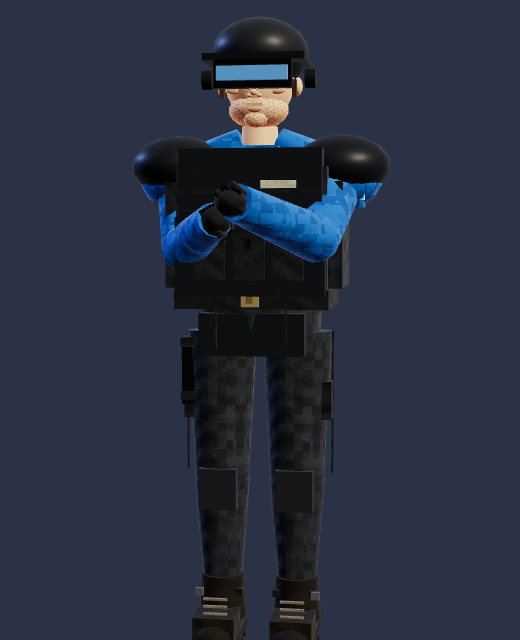
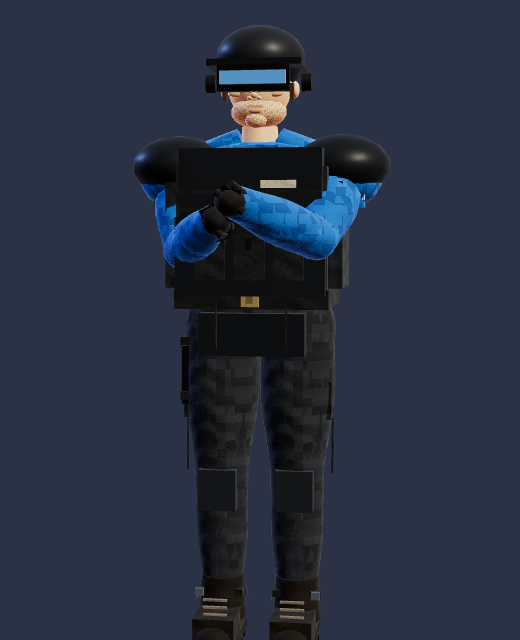
Bodies: organic lathe torso + tapered seamless limbs (rounded joint caps, bicep/quad/calf shaping), shirt hem, pant hems draping over boots, ~7.5-head proportions, idle weight shift + breathing, downed pose tilts to stairs/slopes; SW v28

diff --git a/chars.js b/chars.js
@@ -12,6 +12,13 @@ const _a=new THREE.Vector3(),_b=new THREE.Vector3(),_up=new THREE.Vector3(0,1,0)
 // material ids: 0 cloth+camo 1 skin 2 hard gear 3 eye 4 plain cloth/leather 5 stubble skin 6 hair
 let MID=0;const M=k=>{MID=k};
 function limb(P,a,b,r1,r2,c,seg=10){_a.set(...a);_b.set(...b);const d=_b.clone().sub(_a),l=d.length();_q.setFromUnitVectors(_up,d.normalize());_m.compose(_a.clone().add(_b).multiplyScalar(.5),_q,new THREE.Vector3(1,1,1));P.push({g:G('cyl',r2,r1,l,seg),m:_m.clone(),c,k:MID})}
+const LG={};function limbGeo(l,r1,r2,bu,seg){const k=[l,r1,r2,bu,seg].map(v=>+(+v).toFixed(4)).join(',');if(LG[k])return LG[k];const pts=[];const n=10;
+ for(let i=0;i<=4;i++){const a=-Math.PI/2+i/4*Math.PI/2;pts.push(new THREE.Vector2(Math.cos(a)*r1,-l/2+Math.sin(a)*r1*.9))}
+ for(let i=1;i<n;i++){const t=i/n;pts.push(new THREE.Vector2(r1+(r2-r1)*t+bu*Math.sin(Math.PI*t)*Math.sin(Math.PI*t),-l/2+l*t))}
+ for(let i=0;i<=4;i++){const a=i/4*Math.PI/2;pts.push(new THREE.Vector2(Math.max(1e-4,Math.cos(a)*r2),l/2+Math.sin(a)*r2*.9))}
+ const g=new THREE.LatheGeometry(pts,seg);return LG[k]=g}
+function limbO(P,a,b,r1,r2,c,bu=0,seg=14){_a.set(...a);_b.set(...b);const d=_b.clone().sub(_a),l=d.length();_q.setFromUnitVectors(_up,d.normalize());_m.compose(_a.clone().add(_b).multiplyScalar(.5),_q,new THREE.Vector3(1,1,1));P.push({g:limbGeo(l,r1,r2,bu,seg),m:_m.clone(),c,k:MID})}
+function torsoGeo(pr,seg,sz){const k='T'+pr.join()+seg+sz;if(LG[k])return LG[k];const g=new THREE.LatheGeometry(pr.map(([r,y])=>new THREE.Vector2(Math.max(1e-4,r),y)),seg);g.scale(1,1,sz);return LG[k]=g}
 const bx=(P,w,h,d,x,y,z,c,rx=0,ry=0,rz=0)=>P.push({g:G('box',w,h,d),p:[x,y,z],r:[rx,ry,rz],c,k:MID});
 const sp=(P,r,x,y,z,c,sx=1,sy=1,sz=1,seg=12)=>P.push({g:G('sph',r,seg,Math.max(6,seg*.66|0)),p:[x,y,z],s:[sx,sy,sz],c,k:MID});
 const cy=(P,r1,r2,h,x,y,z,c,seg=12,rx=0,rz=0)=>P.push({g:G('cyl',r1,r2,h,seg),p:[x,y,z],r:[rx,0,rz],c,k:MID});
@@ -71,8 +78,9 @@ export function makeCharacter(teamCol,name,id,tagCol,outfit,cls){const h=hash(id
  const root=new THREE.Group(),rig=new THREE.Group();root.add(rig);
  // ---- torso (hips .92 .. shoulders 1.42) ----
  const torso=sect(rig,'T'+K,P=>{
-  M(0);cy(P,.16*bw,.15*bw,.2,0,.98,0,pants,16);// hips
-  M(L.slim?4:0);cy(P,.17*bw,.15*bw,.42,0,1.2,0,shirt,16);sp(P,.16*bw,0,1.3,-.02,shirt,1.05,.7,.75,14);// shirt torso + chest volume
+  M(0);P.push({g:torsoGeo([[.02,.86],[.13,.865],[.165,.9],[.17,.97],[.16,1.04],[.15,1.07]].map(([r,y])=>[r*bw,y]),20,.74),p:[0,0,0],c:pants,k:MID});// pelvis / pants seat
+  M(L.slim?4:0);P.push({g:torsoGeo([[.15,1.0],[.152,1.05],[.146,1.1],[.16,1.2],[.178,1.29],[.18,1.35],[.165,1.41],[.11,1.455],[.05,1.47]].map(([r,y])=>[r*bw,y]),22,.7),p:[0,0,0],c:shirt,k:MID});// organic torso: waist -> ribcage -> chest -> shoulders
+  bx(P,.31*bw,.025,.23*bw,0,1.035,0,new THREE.Color(shirt).multiplyScalar(.9).getHex());// shirt hem overlapping belt
   if(L.slim){sp(P,.075,-.07,1.3,-.1,shirt,1.1,.8,.6,10);sp(P,.075,.07,1.3,-.1,shirt,1.1,.8,.6,10)}// pecs
   sp(P,.1*bw,-.2*bw,1.37,0,shirt,1.05,.85,1);sp(P,.1*bw,.2*bw,1.37,0,shirt,1.05,.85,1);// shoulders / deltoids
   limb(P,[-.05,1.47,.01],[-.19*bw,1.39,.01],.045,.06,shirt,8);limb(P,[.05,1.47,.01],[.19*bw,1.39,.01],.045,.06,shirt,8);// trapezius
@@ -97,7 +105,7 @@ export function makeCharacter(teamCol,name,id,tagCol,outfit,cls){const h=hash(id
   if(L.slim){M(4);bx(P,.36,.04,.02,0,1.25,-.15,0x2b2c33,0,0,.6);M(2);bx(P,.04,.3,.04,.0,1.25,.16,0x55575e,0,0,.6);bx(P,.08,.02,.06,-.07,1.15,.15,0x8a7a4a,0,0,.6)}// ninja wrap + sword handle + guard
  });
  // ---- head (pivot at neck 1.5) ----
- const head=new THREE.Group();head.position.set(0,1.5,0);rig.add(head);const hd=L.head,capped=hd!=='ninja'&&hd!=='helmet'&&hd!=='jugg';
+ const head=new THREE.Group();head.position.set(0,1.5,0);head.scale.setScalar(.93);rig.add(head);const hd=L.head,capped=hd!=='ninja'&&hd!=='helmet'&&hd!=='jugg';
  sect(head,'H'+K,P=>{
   M(1);sp(P,.113,0,.145,-.002,skin,.9,1.06,1,16);// cranium
   M(fh===1?5:1);sp(P,.088,0,.06,-.025,skin,1.0,.6,1.0,14);sp(P,.032,0,.03,-.088,skin,1.1,.8,.8,10);// jaw + chin
@@ -129,10 +137,10 @@ export function makeCharacter(teamCol,name,id,tagCol,outfit,cls){const h=hash(id
  // ---- aim group: arms + hands holding the gun ----
  const aim=new THREE.Group();aim.position.set(0,1.36,0);rig.add(aim);const fore=L.rolled?skin:shirt;
  sect(aim,'A'+K,P=>{const ar=L.bulk?.07:.055;
-  M(L.slim?4:0);limb(P,[.2*bw,0,0],[.2,-.2,-.14],ar,ar*.9,shirt,12);sp(P,ar*1.05,.2,-.1,-.07,shirt,1,1.25,1,10);// upper arm + bicep
-  M(L.rolled?1:L.slim?4:0);limb(P,[.2,-.2,-.14],[.07,-.12,-.36],ar*.95,ar*.7,fore,12);sp(P,ar*.9,.2,-.2,-.14,shirt);// forearm + elbow
-  M(L.slim?4:0);limb(P,[-.2*bw,0,0],[-.19,-.17,-.24],ar,ar*.9,shirt,12);sp(P,ar*1.05,-.195,-.085,-.12,shirt,1,1.25,1,10);
-  M(L.rolled?1:L.slim?4:0);limb(P,[-.19,-.17,-.24],[-.02,-.08,-.56],ar*.95,ar*.7,fore,12);sp(P,ar*.9,-.19,-.17,-.24,shirt);
+  M(L.slim?4:0);limbO(P,[.2*bw,0,0],[.2,-.2,-.14],ar*1.05,ar*.82,shirt,ar*.18);// upper arm with bicep (seamless shoulder/elbow caps)
+  M(L.rolled?1:L.slim?4:0);limbO(P,[.2,-.2,-.14],[.07,-.12,-.36],ar*.85,ar*.62,fore,ar*.14);
+  M(L.slim?4:0);limbO(P,[-.2*bw,0,0],[-.19,-.17,-.24],ar*1.05,ar*.82,shirt,ar*.18);
+  M(L.rolled?1:L.slim?4:0);limbO(P,[-.19,-.17,-.24],[-.02,-.08,-.56],ar*.85,ar*.62,fore,ar*.14);
   M(4);sp(P,.042,.06,-.12,-.39,glove,1,1.05,1.25,10);sp(P,.042,-.01,-.08,-.58,glove,1,.9,1.25,10);// gloved palms
   if(L.rolled){M(0);for(const s of[1,-1]){const e=s>0?[.2,-.2,-.14]:[-.19,-.17,-.24];cy(P,ar*1.08,ar*1.08,.04,e[0]*.96+(s>0?-.005:.01),e[1]+.005,e[2]-.01,shirt,10,.9)}}// rolled cuffs
  },P=>{M(4);
@@ -146,11 +154,11 @@ export function makeCharacter(teamCol,name,id,tagCol,outfit,cls){const h=hash(id
  const gunMount=new THREE.Group();gunMount.position.set(.055,-.085,-.4);aim.add(gunMount);
  // ---- legs ----
  const legs=[];for(const s of[-1,1]){const th=new THREE.Group();th.position.set(s*.095*bw,.92,0);rig.add(th);
-  sect(th,'Lt'+s+K,P=>{M(0);limb(P,[0,0,0],[0,-.43,-.01],.088*bw,.068*bw,pants,14);sp(P,.07*bw,0,-.43,-.01,pants);sp(P,.07*bw,0,-.17,-.035,pants,1,1.7,.8,10)},// thigh + quad
+  sect(th,'Lt'+s+K,P=>{M(0);limbO(P,[0,.02,0],[0,-.43,-.01],.095*bw,.066*bw,pants,.012*bw,16);sp(P,.06*bw,0,-.17,-.04,pants,1,2,.7,10)},// thigh (seamless hip/knee) + quad
    P=>{M(0);bx(P,.07,.11,.05,s*.07,-.2,-.03,pouch);M(4);bx(P,.072,.012,.052,s*.07,-.15,-.03,new THREE.Color(pouch).multiplyScalar(.75).getHex());bx(P,.006,.42,.006,s*.088*bw,-.21,0,seam);// cargo pocket + flap + outer seam
     if(s>0&&!L.slim){M(2);bx(P,.06,.17,.09,.08,-.13,-.02,0x1d1f20);M(4);bx(P,.065,.025,.1,.08,-.03,-.02,strap);bx(P,.065,.025,.1,.08,-.19,-.02,strap)}});// thigh holster + straps
   const sh=new THREE.Group();sh.position.set(0,-.44,-.01);th.add(sh);
-  sect(sh,'Ls'+s+K,P=>{M(0);limb(P,[0,0,0],[0,-.38,.01],.07*bw,.052,pants,14);sp(P,.055*bw,0,-.14,.03,pants,1,1.6,1,10);// shin + calf
+  sect(sh,'Ls'+s+K,P=>{M(0);limbO(P,[0,.01,0],[0,-.36,.01],.068*bw,.056,pants,.008,16);sp(P,.05*bw,0,-.13,.03,pants,1,1.7,.9,10);P.push({g:torsoGeo([[.058,-.27],[.066,-.32],[.075,-.35],[.078,-.37]],14,1.05),p:[0,0,.005],c:pants,k:0});// shin + calf + pant hem draping over boot
    M(4);bx(P,.12,.1,.24,0,-.43,-.045,boot);sp(P,.06,0,-.44,-.14,boot,1,.7,1.1,10);bx(P,.125,.025,.255,0,-.47,-.045,sole);cy(P,.065,.072,.13,0,-.355,.005,boot,12)},// boot, toe cap, sole, ankle
    P=>{M(2);bx(P,.11,.12,.05,0,-.02,-.065,L.slim?0x202127:0x3a3f45);M(4);bx(P,.125,.02,.02,0,-.02,0,strap);// knee pad + strap
     for(let i=0;i<4;i++)bx(P,.07,.006,.01,0,-.4+i*.022,-.125,0x8a7f6a);bx(P,.135,.02,.05,0,-.335,-.02,strap);M(2);bx(P,.025,.022,.012,s*.06,-.335,-.05,metal);// laces, ankle strap + buckle
@@ -176,11 +184,13 @@ export function animate(m,st,dt){const u=m.userData;const sp=Math.min(st.speed,1
  if(st.air&&!st.climb){legA=[.55,-.15];shA=[-1.0,-.35];rigY=0}
  if(u.climb>.01){const k=u.climb,cs=Math.sin(u.ph);legA=legA.map((a,i)=>lerp(a,.6+(i?-cs:cs)*.5,k));shA=shA.map((a,i)=>lerp(a,-1.1+(i?cs:-cs)*.35,k));rigX=lerp(rigX,-.08,k);aimY=k}
  if(st.slide){rigY=-.48;rigX=.45;legA=[1.25,1.05];shA=[-.15,-.55]}
- if(u.down>.01){const k=u.down,cw=Math.sin(u.ph*.6)*walk;rigY=lerp(rigY,-.3,k);rigX=lerp(rigX,.6,k);legA=legA.map((a,i)=>lerp(a,.18+(i?-cw:cw)*.12,k));shA=shA.map((a,i)=>lerp(a,-2.55+(i?cw:-cw)*.1,k));headX=-.55*k;aimY=Math.max(aimY,.5*k)}// kneeling/crawling on the surface (head ~1.0-1.2 = downed hitbox)
+ if(u.down>.01){const k=u.down,cw=Math.sin(u.ph*.6)*walk;rigY=lerp(rigY,-.26,k);rigX=lerp(rigX,.6,k);legA=legA.map((a,i)=>lerp(a,.18+(i?-cw:cw)*.12,k));shA=shA.map((a,i)=>lerp(a,-2.68+(i?cw:-cw)*.1,k));headX=-.55*k;aimY=Math.max(aimY,.5*k)}// kneeling/crawling on the surface (head ~1.0-1.2 = downed hitbox)
+ {const idle=(1-walk)*(1-u.crouch)*(1-u.down)*(st.air||st.slide||st.climb?0:1);if(idle>.01){u.it=(u.it||0)+dt;const w=Math.sin(u.it*.7);rigZ+=w*.03*idle;legA=legA.map((a,i)=>a+(i?(w>0?.08:0):(w<0?.08:0))*idle);shA=shA.map((a,i)=>a-(i?(w>0?.14:0):(w<0?.14:0))*idle);rigY+=-.012*Math.abs(w)*idle}
+  if(u.torso){const br=1+Math.sin((u.it||0)*1.7)*.008*(1-run);u.torso.scale.set(1,br,1+ (br-1)*1.5)}}
  u.flinch=Math.max(0,u.flinch-dt*4);
  if(u.dead>0){u.dead+=dt;const k=Math.min(1,u.dead/.55);const e=k*k*(3-2*k);rigX=1.45*e;rigY=-.05*e;rigZ=u.roll*.25*e;legA=[.3*e,.1*e];shA=[-.2,-.3];u.tag.visible=false}
  else u.tag.visible=true;
- const r=u.rig;r.position.y+=(rigY-r.position.y)*k14;r.rotation.x+=((rigX+u.flinch*.35)-r.rotation.x)*Math.min(1,dt*(u.dead?8:12));r.rotation.z+=(rigZ-r.rotation.z)*k14;
+ if(st.slope!=null&&u.down>.01)rigX+=st.slope*u.down;const r=u.rig;r.position.y+=(rigY-r.position.y)*k14;r.rotation.x+=((rigX+u.flinch*.35)-r.rotation.x)*Math.min(1,dt*(u.dead?8:12));r.rotation.z+=(rigZ-r.rotation.z)*k14;
  // aim: arms follow pitch; head stabilises against body tilt so the gun stays on target
  const pitch=u.dead?0:st.pitch;u.aim.rotation.x+=(lerp(pitch-r.rotation.x*.85,-.9,aimY*.6)-u.aim.rotation.x)*Math.min(1,dt*15);u.aim.position.y=1.36+(u.climb>.01?.05*u.climb:0);
  u.head.rotation.x+=((pitch*.6-r.rotation.x*.7+headX)-u.head.rotation.x)*k14;u.head.rotation.z=-r.rotation.z*.8;

diff --git a/game.js b/game.js
@@ -365,6 +365,8 @@ const me={id:null,pos:new THREE.Vector3(),vel:new THREE.Vector3(),ground:false,y
 try{const l=JSON.parse(LS('load2')||'null');if(l&&l.length===4&&l.every((k,i)=>W[k]&&W[k].slot===i&&owns(k)))me.load=l}catch(e){}
 const C={byOrd:{},players:{},phase:'lobby',map:0,mode:'team',score:{},round:0,hostId:null,roundT:0,sb:{}};
 let isHost=false,peer=null,conn=null,roomCode='';
+function gndAt(x,z,y){let g=y<.6?0:-1e9;for(const c of cols)if(x>c.x0&&x<c.x1&&z>c.z0&&z<c.z1&&c.y1<=y+.45&&c.y1>y-1.2&&c.y1>g)g=c.y1;return g<-1e8?y:g}
+function downSlope(q){const t=performance.now();if(q.slT&&t-q.slT<250)return q.slV;const y=q.rp.y,fx=-Math.sin(q.yaw),fz=-Math.cos(q.yaw);const f=gndAt(q.rp.x+fx*.45,q.rp.z+fz*.45,y),b=gndAt(q.rp.x-fx*.45,q.rp.z-fz*.45,y);q.slT=t;q.slV=Math.max(-.5,Math.min(.5,Math.atan2(f-b,.9)));return q.slV}
 let DMTEX=null;function downMark(q,dn){if(!dn){if(q.dnM)q.dnM.visible=false;return}
  if(!q.dnM){if(!DMTEX){const cv=document.createElement('canvas');cv.width=cv.height=128;const x=cv.getContext('2d');x.beginPath();x.arc(64,64,54,0,7);x.fillStyle='rgba(200,20,30,.92)';x.fill();x.lineWidth=8;x.strokeStyle='#fff';x.stroke();x.fillStyle='#fff';x.fillRect(52,28,24,72);x.fillRect(28,52,72,24);DMTEX=new THREE.CanvasTexture(cv)}
   q.dnM=new THREE.Sprite(new THREE.SpriteMaterial({map:DMTEX,transparent:true,depthWrite:false}));q.dnM.position.y=1.55;q.model.add(q.dnM)}
@@ -998,7 +1000,7 @@ function updRemotes(dt){const a=Math.min(1,dt*14);for(const id in C.players){con
  if(!q.alive&&!u.dead){q.model.visible=false;continue}if(u.dead>3){q.model.visible=false;continue}q.model.visible=true;
  if(q.alive){if(q.rp.distanceTo(q.tp)>6)q.rp.copy(q.tp);else q.rp.lerp(q.tp,a);let dy=q.tyaw-q.yaw;dy=Math.atan2(Math.sin(dy),Math.cos(dy));q.yaw+=dy*a;q.pitch+=(q.tpitch-q.pitch)*a}
  const sp=Math.hypot(q.rp.x-q.lp.x,q.rp.z-q.lp.z)/Math.max(dt,.001);q.lp.copy(q.rp);q.spd=(q.spd||0)+(sp-(q.spd||0))*Math.min(1,dt*8);
- if(q.wid!=null)setRemoteGun(q,q.wid);q.model.position.copy(q.rp);q.model.rotation.y=q.yaw;{const dn=!!(q.flags&4);const cl=!dn&&!!inVol(ladders,q.rp,.15);animate(q.model,{speed:q.spd,air:!!(q.flags&2)&&!cl,slide:!!(q.flags&1)&&!dn,pitch:q.pitch,climb:cl,down:dn,dist:camera.position.distanceTo(q.rp)},dt);q.model.rotation.x=0;downMark(q,dn)}}}
+ if(q.wid!=null)setRemoteGun(q,q.wid);q.model.position.copy(q.rp);q.model.rotation.y=q.yaw;{const dn=!!(q.flags&4);const cl=!dn&&!!inVol(ladders,q.rp,.15);animate(q.model,{speed:q.spd,air:!!(q.flags&2)&&!cl,slide:!!(q.flags&1)&&!dn,pitch:q.pitch,climb:cl,down:dn,slope:dn?downSlope(q):null,dist:camera.position.distanceTo(q.rp)},dt);q.model.rotation.x=0;downMark(q,dn)}}}
 // ================= LOOP =================
 renderer.autoClear=false;renderer.info.autoReset=false;
 let last=performance.now(),acc=0,frames=0,fpsShown=0;const fpsLog=[];

diff --git a/sw.js b/sw.js
@@ -1,5 +1,5 @@
 // Network-first service worker: always try fresh files (so updates show), fall back to cache offline.
-const CACHE='headshotz-v27';
+const CACHE='headshotz-v28';
 const ASSETS=['./','index.html','style.css','game.js','maps.js','maps2.js','mapdress.js','wskins.js','gfx.js','weapons.js','chars.js','post.js','ice.js','manifest.json','lib/three.module.min.js','lib/peerjs.min.js','lib/localpeer.js','icons/icon-180.png','icons/icon-192.png','icons/icon-512.png'];
 self.addEventListener('install',e=>{self.skipWaiting();e.waitUntil(caches.open(CACHE).then(c=>c.addAll(ASSETS)).catch(()=>{}))});
 self.addEventListener('activate',e=>e.waitUntil(caches.keys().then(k=>Promise.all(k.filter(n=>n!==CACHE).map(n=>caches.delete(n)))).then(()=>self.clients.claim())));
